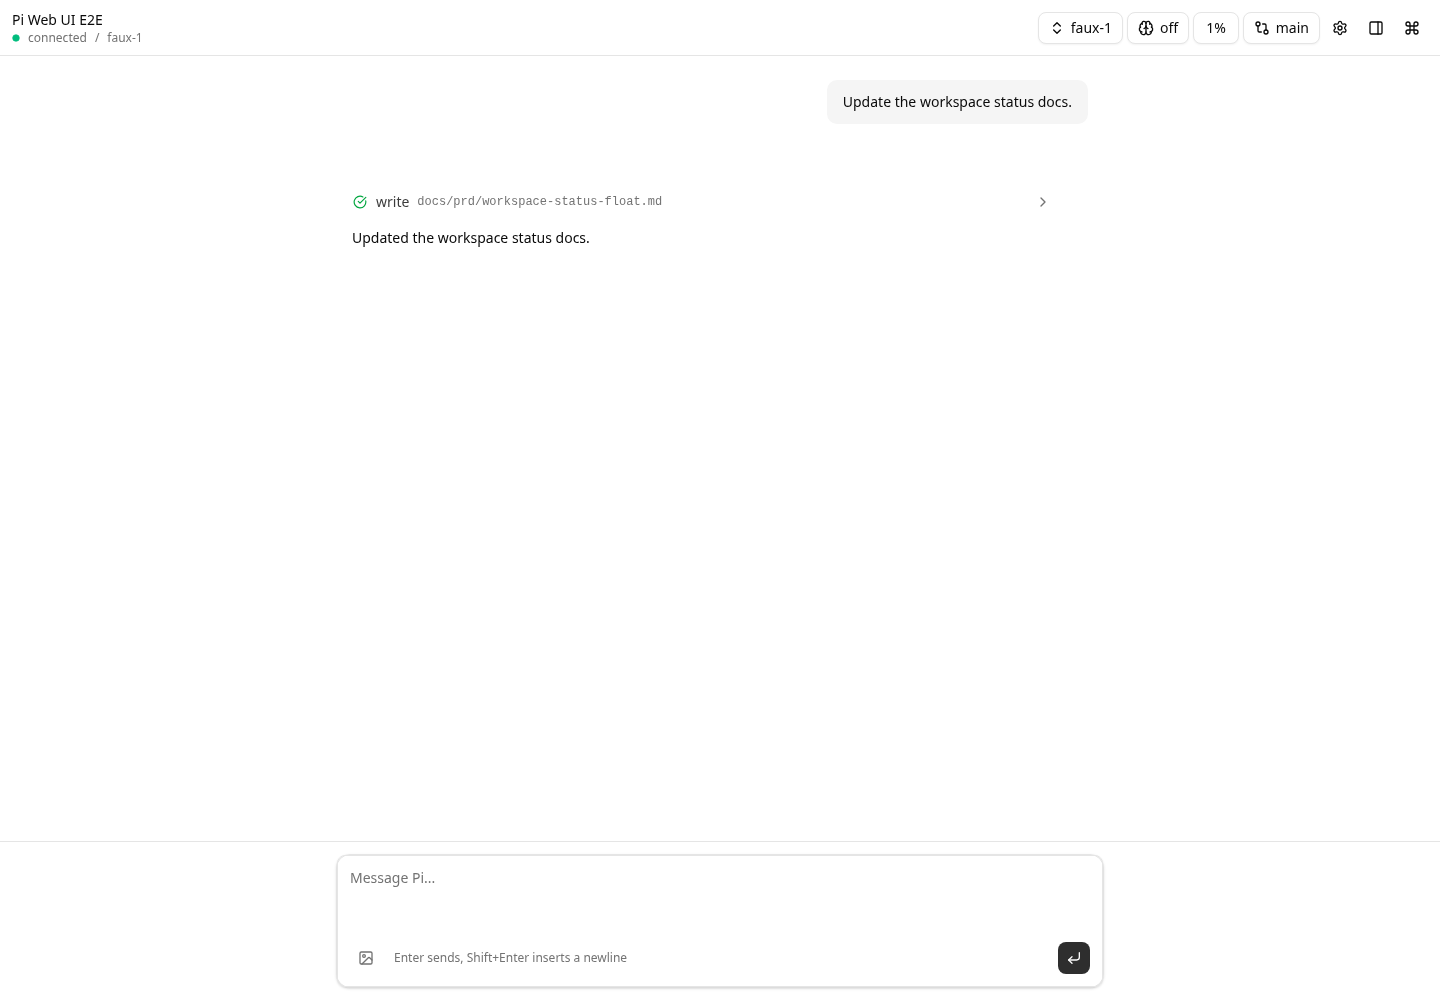
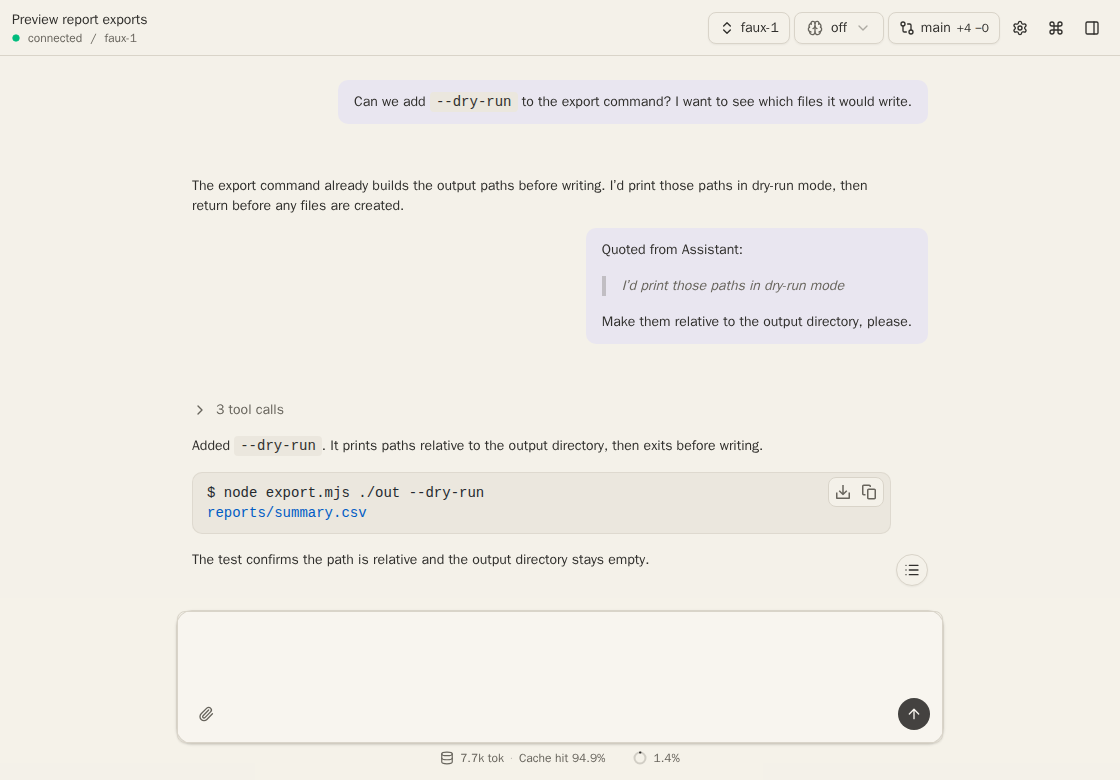
Use a real Pi transcript as the README snapshot

diff --git a/e2e/steps/transcript-quote.steps.ts b/e2e/steps/transcript-quote.steps.ts
@@ -1,4 +1,5 @@
-import { readdirSync, readFileSync } from "node:fs";
+import { execFileSync } from "node:child_process";
+import { copyFileSync, readdirSync, readFileSync } from "node:fs";
 import path from "node:path";
 import { expect, type Locator } from "@playwright/test";
 import { createBdd } from "playwright-bdd";
@@ -144,6 +145,58 @@ Then("Pi receives the quote without feedback", async ({ page }) => {
   await expect(page.getByRole("log").getByText(partial, { exact: true })).toBeVisible();
   expect(persistedPrompt()).toBe(`Quoted from Assistant:\n> ${partial}`);
 });
+Given("Pi is ready to discuss report exports", async ({ page }) => {
+  harness = await startPiWebUi("report-export", { sessionName: "Preview report exports" });
+  for (const name of ["export.mjs", "export.test.mjs"]) {
+    copyFileSync(path.resolve(__dirname, "../fixtures/report-export", name), path.join(harness.workspaceDir, name));
+  }
+  execFileSync("git", ["add", "export.mjs", "export.test.mjs"], { cwd: harness.workspaceDir });
+  execFileSync("git", ["commit", "-m", "Add report export command"], { cwd: harness.workspaceDir });
+  await page.goto(harness.pageUrl);
+  await expect(page.getByText("connected", { exact: true })).toBeVisible();
+});
+
+When("I ask Pi for an export preview", async ({ page }) => {
+  await page
+    .getByRole("textbox", { name: "Message Pi" })
+    .fill("Can we add `--dry-run` to the export command? I want to see which files it would write.");
+  await page.getByRole("button", { name: "Submit", exact: true }).click();
+  await expect(page.getByText(/The export command already builds/)).toBeVisible();
+  await expect(page.getByRole("button", { name: "Submit", exact: true })).toBeVisible();
+});
+
+When("I quote the proposed behavior and clarify the output paths", async ({ page }) => {
+  const quote = "I’d print those paths in dry-run mode";
+  await selectText(page.getByText(/The export command already builds/), quote);
+  await page.getByRole("button", { name: "Quote / Add to Chat", exact: true }).click();
+  await page.getByRole("textbox", { name: "Message Pi" }).fill("Make them relative to the output directory, please.");
+  await page.getByRole("button", { name: "Submit", exact: true }).click();
+});
+
+Then("the transcript shows the verified dry-run result", async ({ page }) => {
+  if (!harness) throw new Error("Pi harness is not running");
+  const result = page.getByText("The test confirms the path is relative and the output directory stays empty.", {
+    exact: true,
+  });
+  await expect(result).toBeVisible();
+  await expect(page.getByRole("button", { name: "Submit", exact: true })).toBeVisible();
+  expect(persistedPrompt()).toContain("Quoted from Assistant:\n> I’d print those paths in dry-run mode");
+  const testOutput = execFileSync(process.execPath, ["--test", "--test-reporter=tap", "export.test.mjs"], {
+    cwd: harness.workspaceDir,
+    encoding: "utf8",
+  });
+  expect(testOutput).toContain("# pass 1");
+
+  await page.reload();
+  await expect(page.getByRole("button", { name: "3 tool calls", exact: true })).toHaveAttribute(
+    "aria-expanded",
+    "false",
+  );
+  await expect(page.getByRole("button", { name: "Open Changes" })).toContainText(/main.*\+\d+/);
+  await expect(result).toBeInViewport();
+  await expect(page).toHaveScreenshot("pi-web-ui-example.png");
+});
+
 After(async () => {
   await harness?.stop();
   harness = null;

diff --git a/e2e/fixtures/responses/report-export.ts b/e2e/fixtures/responses/report-export.ts
@@ -1,0 +1,41 @@
+import { fauxAssistantMessage, fauxToolCall } from "@earendil-works/pi-ai";
+
+export default [
+  fauxAssistantMessage(
+    "The export command already builds the output paths before writing. I’d print those paths in dry-run mode, then return before any files are created.",
+  ),
+  fauxAssistantMessage([fauxToolCall("read", { path: "export.mjs" })], { stopReason: "toolUse" }),
+  fauxAssistantMessage(
+    [
+      fauxToolCall("edit", {
+        path: "export.mjs",
+        edits: [
+          {
+            oldText: "mkdirSync(dirname(target), { recursive: true });",
+            newText: [
+              'if (process.argv.includes("--dry-run")) {',
+              "  console.log(relative(output, target));",
+              "  process.exit(0);",
+              "}",
+              "mkdirSync(dirname(target), { recursive: true });",
+            ].join("\n"),
+          },
+        ],
+      }),
+    ],
+    { stopReason: "toolUse" },
+  ),
+  fauxAssistantMessage([fauxToolCall("bash", { command: "node --test export.test.mjs" })], { stopReason: "toolUse" }),
+  fauxAssistantMessage(
+    [
+      "Added `--dry-run`. It prints paths relative to the output directory, then exits before writing.",
+      "",
+      "```console",
+      "$ node export.mjs ./out --dry-run",
+      "reports/summary.csv",
+      "```",
+      "",
+      "The test confirms the path is relative and the output directory stays empty.",
+    ].join("\n"),
+  ),
+];

diff --git a/e2e/fixtures/faux-provider-extension.ts b/e2e/fixtures/faux-provider-extension.ts
@@ -4,11 +4,13 @@ import chatLifecycleResponses from "./responses/chat-lifecycle.ts";
 import duplicateArtifactResponses from "./responses/duplicate-artifact.ts";
 import editHistoryResponses from "./responses/edit-history.ts";
 import externalArtifactResponses from "./responses/external-artifact.ts";
+import reportExportResponses from "./responses/report-export.ts";
 import toolFailureResponses from "./responses/tool-failure.ts";
 import transcriptQuoteResponses from "./responses/transcript-quote.ts";
 import workspaceArtifactResponses from "./responses/workspace-artifact.ts";
 
 const responsesByName = {
+  "report-export": reportExportResponses,
   "transcript-quote": transcriptQuoteResponses,
   "edit-history": editHistoryResponses,
   "chat-lifecycle": chatLifecycleResponses,

diff --git a/src/web/src/components/pi-web-ui/chat-input.tsx b/src/web/src/components/pi-web-ui/chat-input.tsx
@@ -47,7 +47,7 @@ export function ChatInput({
       <div className="mx-auto w-full max-w-3xl">
         <PromptInput
           accept="image/*"
-          className="rounded-xl border bg-card shadow-sm"
+          className="rounded-2xl border bg-card shadow-sm"
           globalDrop={true}
           multiple
           onSubmit={onSubmit}
@@ -68,7 +68,7 @@ export function ChatInput({
             <PromptInputTools>
               <PromptAttachmentButton />
             </PromptInputTools>
-            <PromptInputSubmit disabled={disabled} onStop={onAbort} status={chatStatus} />
+            <PromptInputSubmit className="rounded-full" disabled={disabled} onStop={onAbort} status={chatStatus} />
           </PromptInputFooter>
         </PromptInput>
         <ComposerStats />

diff --git a/e2e/playwright.config.ts b/e2e/playwright.config.ts
@@ -23,7 +23,25 @@ export default defineConfig({
   projects: [
     {
       name: "chromium",
+      grepInvert: /@readme/,
       use: { ...devices["Desktop Chrome"] },
     },
+    ...(process.env.PI_WEB_UI_README_SNAPSHOT === "1"
+      ? [
+          {
+            name: "readme",
+            grep: /@readme/,
+            use: {
+              ...devices["Desktop Chrome"],
+              viewport: { width: 1120, height: 780 },
+              colorScheme: "light" as const,
+              deviceScaleFactor: 1,
+            },
+            expect: {
+              toHaveScreenshot: { pathTemplate: "../docs/images/{arg}{ext}" },
+            },
+          },
+        ]
+      : []),
   ],
 });

diff --git a/src/web/components/ai-elements/prompt-input.tsx b/src/web/components/ai-elements/prompt-input.tsx
@@ -1,7 +1,7 @@
 "use client";
 
 import type { ChatStatus, FileUIPart, SourceDocumentUIPart } from "ai";
-import { CornerDownLeftIcon, ImageIcon, Monitor, PlusIcon, SquareIcon, XIcon } from "lucide-react";
+import { ArrowUpIcon, ImageIcon, Monitor, PlusIcon, SquareIcon, XIcon } from "lucide-react";
 import { nanoid } from "nanoid";
 import type {
   ChangeEvent,
@@ -1047,7 +1047,7 @@ export const PromptInputSubmit = ({
 }: PromptInputSubmitProps) => {
   const isGenerating = status === "submitted" || status === "streaming";
 
-  let Icon = <CornerDownLeftIcon className="size-4" />;
+  let Icon = <ArrowUpIcon className="size-4" />;
 
   if (status === "submitted") {
     Icon = <Spinner />;

diff --git a/e2e/harness/pi-process.ts b/e2e/harness/pi-process.ts
@@ -14,6 +14,7 @@ export type PiWebUiHarness = {
 
 export type PiWebUiHarnessOptions = {
   git?: boolean;
+  sessionName?: string;
   enableEditing?: boolean;
   cancelNavigation?: boolean;
 };
@@ -46,7 +47,7 @@ export async function startPiWebUi(fixtureName: string, options: PiWebUiHarnessO
       "--session-dir",
       sessionDir,
       "--name",
-      "Pi Web UI E2E",
+      options.sessionName ?? "Pi Web UI E2E",
       "--approve",
       "--no-skills",
       "--no-prompt-templates",

diff --git a/README.md b/README.md
@@ -1,6 +1,6 @@
 # Pi Web UI
 
-![Pi Web UI example](docs/images/pi-web-ui-example.png)
+![Pi Web UI showing a follow-up quoted from an export plan](docs/images/pi-web-ui-example.png)
 
 An **interactive agent UI** for the [Pi](https://pi.dev/) coding agent.
 
